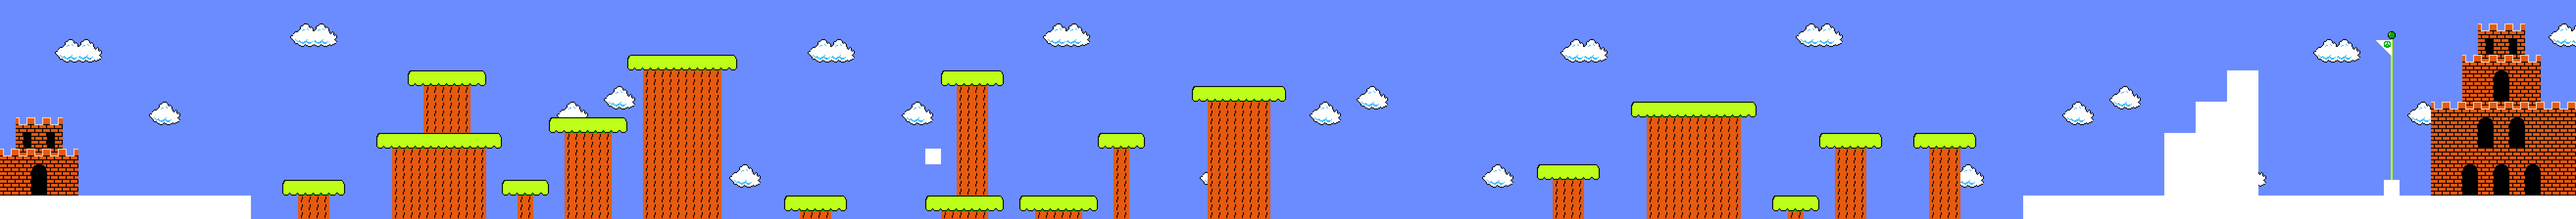
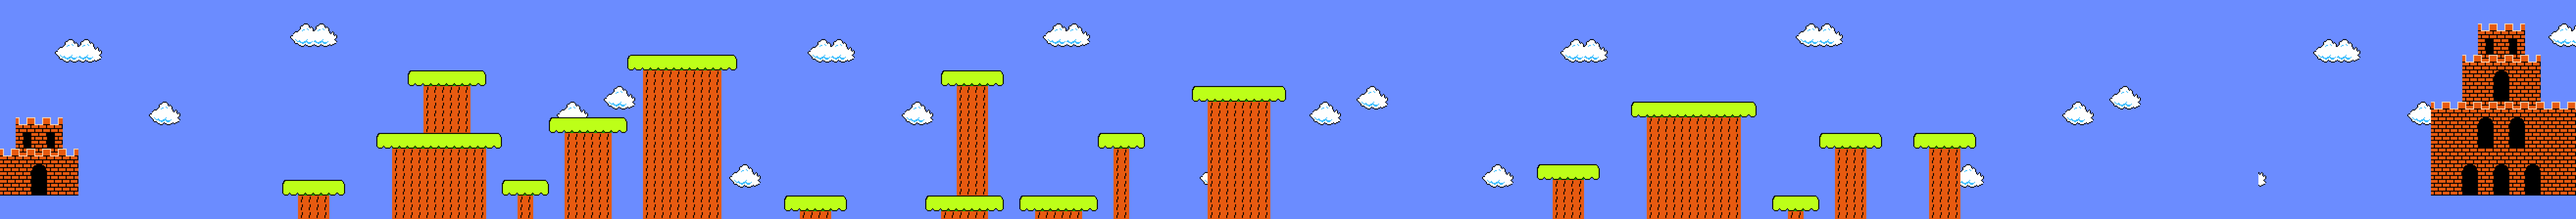
Platform physics update Stray pixels cleared on 2-2 Sub More warps implemented

diff --git a/LevelCreator.py b/LevelCreator.py
@@ -95,9 +95,15 @@ def world_1_1_sub(screen, settings, start_pos=None):
     return new_level
 
 
-def world_1_2(screen, settings):
+def world_1_2_sub(screen, settings, start_pos=None):
+    if start_pos is None:
+        start_pos = [3, 10]
+
     new_level = \
-        Level(screen, settings, 'Resources/Images/Backgrounds/World_1/1-2/level_1_2_background.png', 'Resources/Images/Backgrounds/World_1/1-2/level_1_2_floor.png', [3, 12], (120,120), 500, "1-2_A")
+        Level(screen, settings, 'Resources/Images/Backgrounds/World_1/1-2/level_1_2_background.png', 'Resources/Images/Backgrounds/World_1/1-2/level_1_2_floor.png', start_pos, [-32, 1], 500, "1-2", settings.W_1_2_sub, None, settings.W_1_2)
+
+    new_level.place_warp(settings.W_1_2_sub_sub, "down", 103.5, 3)
+    new_level.place_warp(settings.W_1_2_exit, "right", 166, 4)
     new_level.mass_place_blocks('ub', 6, 11, 83, 1)
     new_level.place_block('ub', 89, 11, "Power-Up")
     new_level.mass_place_blocks('ub', 89, 11, 49, 1)
@@ -168,21 +174,64 @@ def world_1_2(screen, settings):
 
     return new_level
 
-def world_1_2_part2(screen, settings):
+
+def world_1_2_sub_sub(screen, settings, start_pos=None):
+    if start_pos is None:
+        start_pos = [3, 10]
     new_level = \
-        Level(screen, settings, 'Resources/Images/Backgrounds/World_1/1-2/level_1_2_part2_background.png', 'Resources/Images/Backgrounds/World_1/1-2/level_1_2_part2_floor.png', (500, 600), (120,120), 500)
+        Level(screen, settings, 'Resources/Images/Backgrounds/World_1/1-2/level_1_2_part2_background.png', 'Resources/Images/Backgrounds/World_1/1-2/level_1_2_part2_floor.png', start_pos, [-32, 1], 500, "1-2", settings.W_1_2_sub_sub, None, settings.W_1_2)
+
+    new_level.place_warp(settings.W_1_2_sub, 'right', 13, 1)
+
+    new_level.mass_place_blocks('ub', 3, 4, 9, 1)
+    new_level.place_block('ub', 12, 4, "10-Coin")
+    new_level.mass_place_blocks('ub', 3, 8, 10, 4)
+
+    new_level.place_item("Coin", 3, 1)
+    new_level.place_item("Coin", 4, 1)
+    new_level.place_item("Coin", 4, 5)
+    new_level.place_item("Coin", 5, 1)
+    new_level.place_item("Coin", 5, 5)
+    new_level.place_item("Coin", 6, 1)
+    new_level.place_item("Coin", 6, 5)
+    new_level.place_item("Coin", 7, 1)
+    new_level.place_item("Coin", 7, 5)
+    new_level.place_item("Coin", 8, 1)
+    new_level.place_item("Coin", 8, 5)
+    new_level.place_item("Coin", 9, 1)
+    new_level.place_item("Coin", 9, 5)
+    new_level.place_item("Coin", 10, 1)
+    new_level.place_item("Coin", 10, 5)
+    new_level.place_item("Coin", 11, 1)
+    new_level.place_item("Coin", 11, 5)
 
     return new_level
 
-def world_1_2_part3(screen, settings):
+def world_1_2(screen, settings, start_pos=None):
+    if start_pos is None:
+        start_pos = [3, 1]
     new_level = \
-        Level(screen, settings, 'Resources/Images/Backgrounds/World_1/1-2/level_1_2_part3_background.png', 'Resources/Images/Backgrounds/World_1/1-2/level_1_2_part3_floor.png', (500, 600), (120,120), 500)
+        Level(screen, settings, 'Resources/Images/Backgrounds/World_2/2-2/2-2_background.png', 'Resources/Images/Backgrounds/World_2/2-2/2-2_floor.png', start_pos, [-32, 1], 500, "1-2", settings.W_1_2, None, settings.W_1_2)
+    new_level.place_warp(settings.W_1_2_sub, 'right', 10, 1)
 
     return new_level
 
-def world_1_3(screen, settings):
+
+def world_1_2_exit(screen, settings, start_pos=None):
+    if start_pos is None:
+        start_pos = [4.5, 1]
     new_level = \
-        Level(screen, settings, 'Resources/Images/Backgrounds/World_1/1-3/level_1_3_background.png', 'Resources/Images/Backgrounds/World_1/1-3/level_1_3_floor.png', [6,12], (120,120), 500, "1-3")
+        Level(screen, settings, 'Resources/Images/Backgrounds/World_1/1-2/level_1_2_part3_background.png', 'Resources/Images/Backgrounds/World_1/1-2/level_1_2_part3_floor.png', start_pos, [22, 2], 500, "1-2", settings.W_1_2_exit, settings.W_1_3, settings.W_1_2)
+    new_level.place_enemy("piranha_plant", 4.5, 3)
+    return new_level
+
+
+def world_1_3(screen, settings, start_pos=None):
+    if start_pos is None:
+        start_pos = [3, 1]
+
+    new_level = \
+        Level(screen, settings, 'Resources/Images/Backgrounds/World_1/1-3/level_1_3_background.png', 'Resources/Images/Backgrounds/World_1/1-3/level_1_3_floor.png', start_pos, [152, 2], 500, "1-3", settings.W_1_3, settings.W_1_4, settings.W_1_3)
     new_level.mass_place_blocks('invis_plt', 18, 1, 4, 1)
     new_level.mass_place_blocks('invis_plt', 24, 4, 8, 1)
     new_level.mass_place_blocks('invis_plt', 26, 8, 5, 1)
@@ -369,6 +418,8 @@ def world_2_2_exit(screen, settings, start_pos=None):
         start_pos = [4.5, 1]
     new_level = \
         Level(screen, settings, 'Resources/Images/Backgrounds/World_2/2-2/2-2_exit_background.png', 'Resources/Images/Backgrounds/World_2/2-2/2-2_exit_floor.png', start_pos, [22, 2], 500, "2-2", settings.W_2_2_exit, settings.W_2_3, settings.W_2_2)
+
+    new_level.place_enemy("piranha_plant", 4.5, 3)
     return new_level
 
 def world_2_3(screen, settings, start_pos=None):

diff --git a/physics.py b/physics.py
@@ -103,16 +103,19 @@ def collide_group_y(group, entity, direction):
 
 
 def check_event_collision_x(solid, entity, direction, asset_id):
-    if asset_id is 0:
+    if asset_id == 0:
         return False
 
-    if asset_id is 1:
+    if asset_id == 1:
         return True
 
-    if asset_id is 10:
+    if asset_id == 2 or asset_id == 36 or asset_id == 37:
         return True
 
-    if asset_id is 30 and entity.asset_id is 99:
+    if asset_id == 10:
+        return True
+
+    if asset_id == 30 and entity.asset_id == 99:
         if collide_rect(entity, solid):
             entity.take_damage()
             return True
@@ -124,42 +127,50 @@ def check_event_collision_y(solid, entity, direction, asset_id):
     if asset_id < 0:
         return False
 
-    if asset_id is 0:
+    if asset_id == 0:
         test_rect = entity.rect.copy()
         test_rect.y += direction
         if collide_rect(entity, solid) or pygame.Rect.colliderect(test_rect, solid.rect):
             if entity.rect.top - entity.delta_y >= solid.rect.bottom:
                 if not solid.active:
                     entity.rect.top = solid.y_pos
-                    if entity.asset_id is 99:
+                    if entity.asset_id == 99:
                         solid.hit(entity)
 
-    elif asset_id is 1:
+    elif asset_id == 1:
         if collide_rect(entity, solid):
             if entity.rect.top - entity.delta_y <= solid.rect.bottom:
                 return True
             else:
-                if entity.asset_id is 99:
+                if entity.asset_id == 99:
                     solid.hit(entity)
 
     # Platform collision
-    elif asset_id is 2:
+    elif asset_id == 2:
         if collide_rect(entity, solid):
             if entity.rect.bottom - entity.delta_y <= solid.rect.top:
                 entity.rect.bottom = solid.rect.top
                 entity.land()
         return True
     
-    elif asset_id is 36:
+    elif asset_id == 36:
         if collide_rect(entity, solid):
-            entity.rect.bottom = solid.rect.top - 2
-            entity.land()
+            if entity.rect.bottom - entity.delta_y - 2 <= solid.rect.top:
+                entity.rect.bottom = solid.rect.top - 2
+                entity.land()
         return True
 
-    if asset_id is 10:
+    elif asset_id == 37:
+        if collide_rect(entity, solid):
+            if entity.rect.bottom - entity.delta_y <= solid.rect.top:
+                entity.rect.bottom = solid.rect.top + 4
+                entity.land()
         return True
 
-    if asset_id is 30 and entity.asset_id is 99:
+    if asset_id == 10:
+        return True
+
+    if asset_id == 30 and entity.asset_id == 99:
         if collide_rect(entity, solid):
             if entity.rect.bottom - entity.delta_y <= solid.rect.top and direction > 0:
                 entity.bounce()

diff --git a/Scoring.py b/Scoring.py
@@ -19,13 +19,13 @@ class Scoring:
         self.timer = 240
 
     def draw_text(self):
-        self.score_num_text.message(str(self.scores), (255, 255, 255), 100, 30)
-        self.score_text.message('MARIO', (255, 255, 255), 100, 10)
-        self.world_text.message('WORLD', (255, 255, 255), 675, 10)
-        self.world_num_text.message(str(self.world), (255, 255, 255), 675, 30)
-        self.coins_text.message('COIN*' + str(self.coins), (255, 255, 255), 350, 20)
-        self.timer_text.message('TIME', (255, 255, 255), 900, 10)
-        self.timer_num_text.message(str(self.timer), (255, 255, 255), 900, 30)
+        self.score_num_text.message(str(self.scores), (255, 255, 255), 100/1200*768, 30)
+        self.score_text.message('MARIO', (255, 255, 255), 100/1200*768, 10)
+        self.world_text.message('WORLD', (255, 255, 255), 675/1200*768, 10)
+        self.world_num_text.message(str(self.world), (255, 255, 255), 675/1200*768, 30)
+        self.coins_text.message('COIN*' + str(self.coins), (255, 255, 255), 350/1200*768, 20)
+        self.timer_text.message('TIME', (255, 255, 255), 900/1200*768, 10)
+        self.timer_num_text.message(str(self.timer), (255, 255, 255), 900/1200*768, 30)
 
     def update_text(self):
         self.run_clock()

diff --git a/SuperMario.py b/SuperMario.py
@@ -24,7 +24,7 @@ class SuperMario:
         # SET GAME HEADER
         #self.scores = Scoring(self)
         # SET LEVEL
-        self.level = world_1_1(self.screen, self.settings)
+        self.level = world_1_3(self.screen, self.settings)
         self.level_id = self.level.level_id
 
         # SET EVENTS
@@ -52,6 +52,17 @@ class SuperMario:
 
             elif self.level_id == self.settings.W_1_2:
                 self.level = world_1_2(self.screen, self.settings)
+
+            elif self.level_id == self.settings.W_1_2_sub:
+                if old_id == self.settings.W_1_2_sub_sub:
+                    start_pos = [115.5, 3]
+                self.level = world_1_2_sub(self.screen, self.settings, start_pos)
+
+            elif self.level_id == self.settings.W_1_2_sub_sub:
+                self.level = world_1_2_sub_sub(self.screen, self.settings)
+
+            elif self.level_id == self.settings.W_1_2_exit:
+                self.level = world_1_2_exit(self.screen, self.settings)
 
             elif self.level_id == self.settings.W_1_3:
                 self.level = world_1_3(self.screen, self.settings)

diff --git a/Block.py b/Block.py
@@ -142,12 +142,10 @@ class Platform(Block):
     def update(self):
         super().update()
         if self.active:
-            if self.direction == 'horizontal':
-                self.rect.right += 1
-            else:
                 self.rect.bottom -= 1
                 if self.rect.bottom < 0:
                     self.rect.bottom += self.settings.HEIGHT
+
 
 class horizontal_Platform(Block):
     def __init__(self, screen, settings, camera, x, y, level):
@@ -212,7 +210,11 @@ class vertical_Platform(Block):
             if self.track == 175:
                 self.speed *= -1
                 self.track = 0
-                
+            if self.speed > 0:
+                self.asset_id = self.settings.down_platform_id
+            else:
+                self.asset_id = self.settings.one_way_platform_id
+
 
 class Uni_directional_platform(Block):
     def __init__(self, screen, settings, camera, x, y, level):

diff --git a/Settings.py b/Settings.py
@@ -1,7 +1,7 @@
 # store all game settings here
 class Settings:
     def __init__(self):
-        self.WIDTH = 1200#768
+        self.WIDTH = 768
         self.HEIGHT = 672
         self.fps = 30
         self.bg_speed = 1 # speed of the background
@@ -57,6 +57,7 @@ class Settings:
         self.piranha_plant_id = 34
         self.lava_bubble_id = 35
         self.one_way_platform_id = 36
+        self.down_platform_id = 37
 
         # Level_ID
         self.W_1_1 = 0
